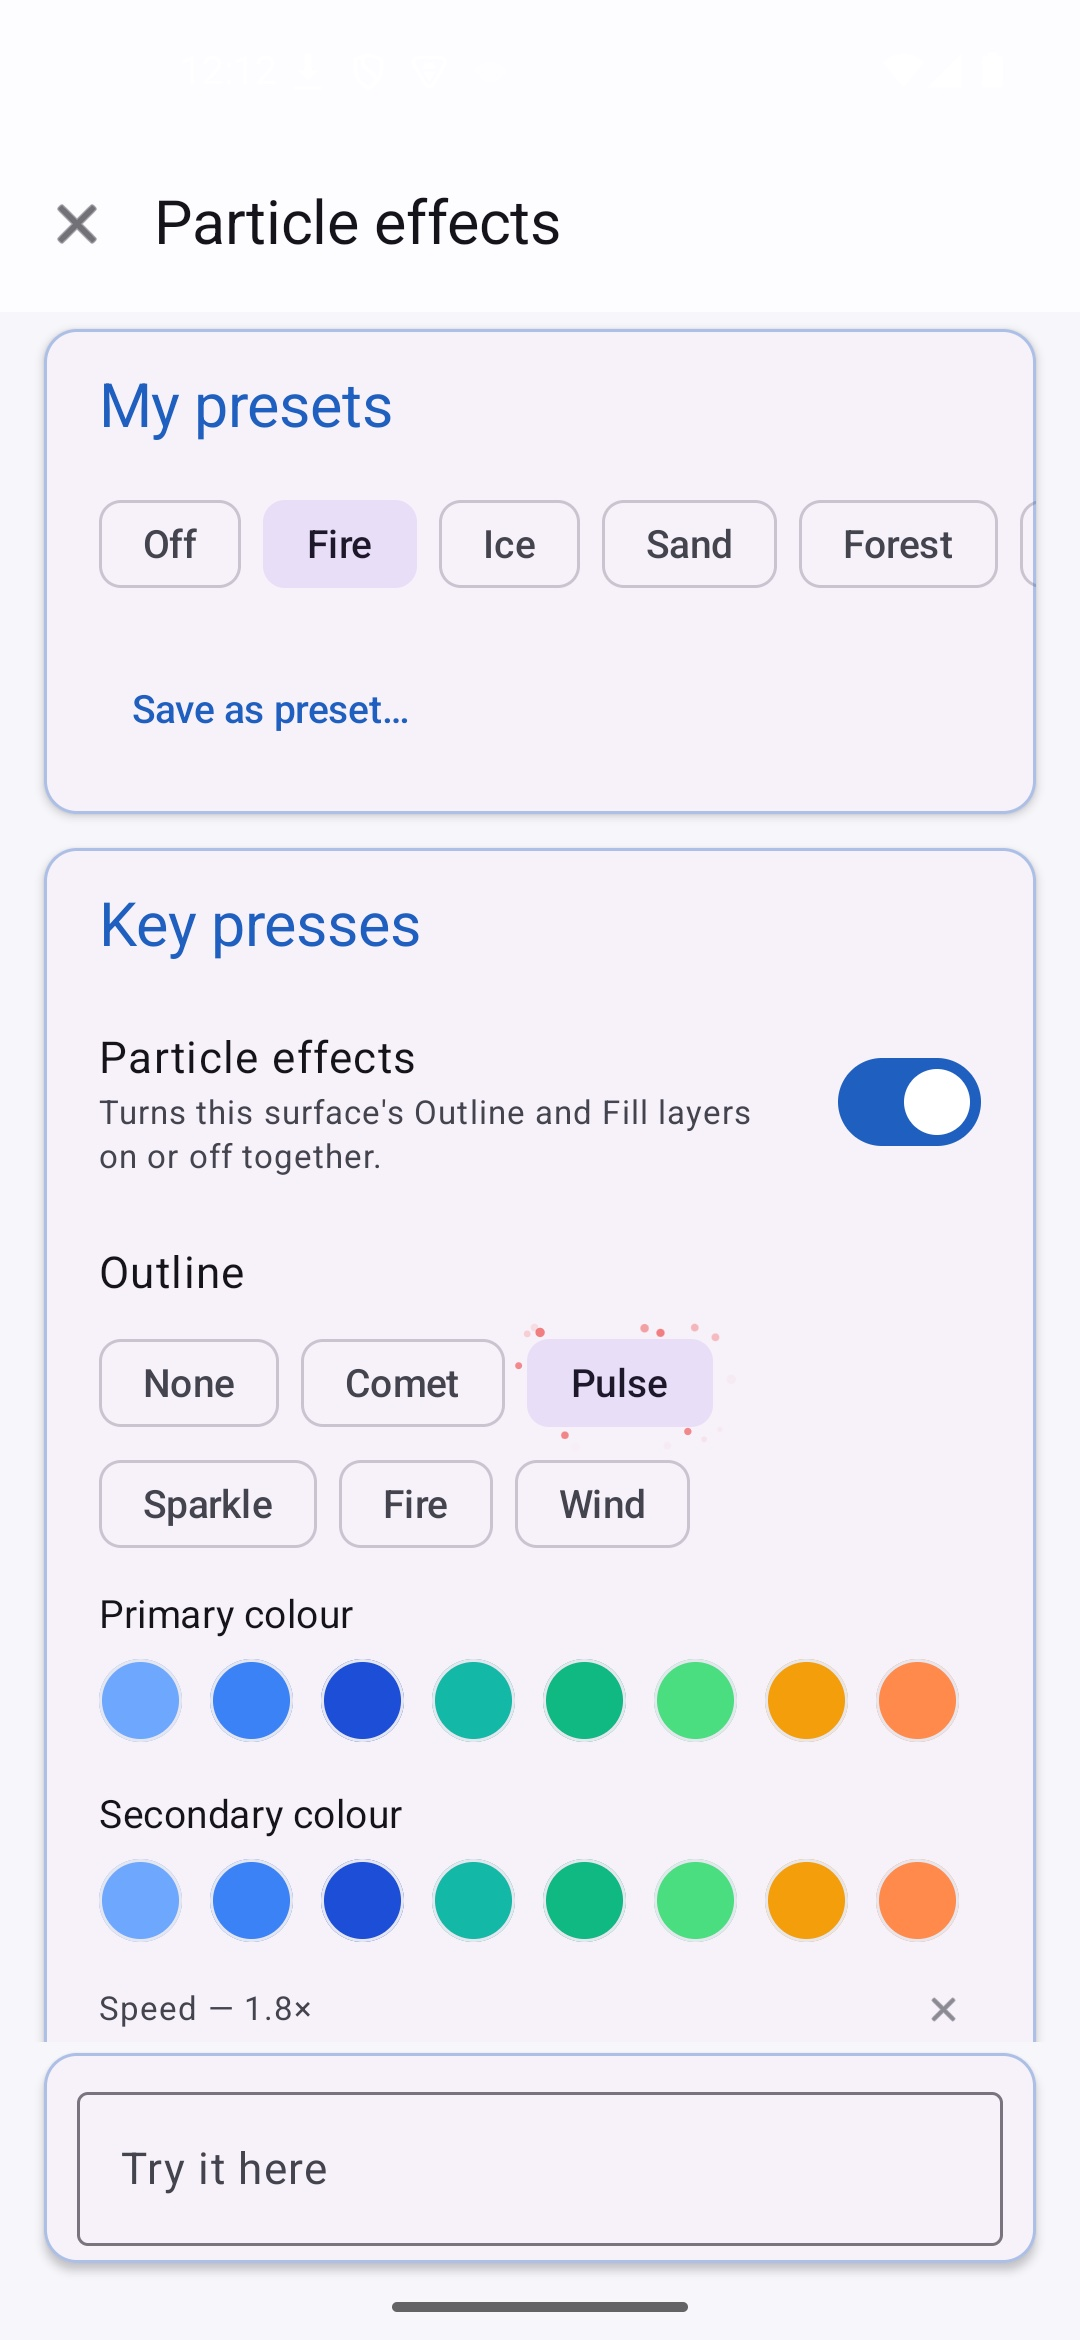
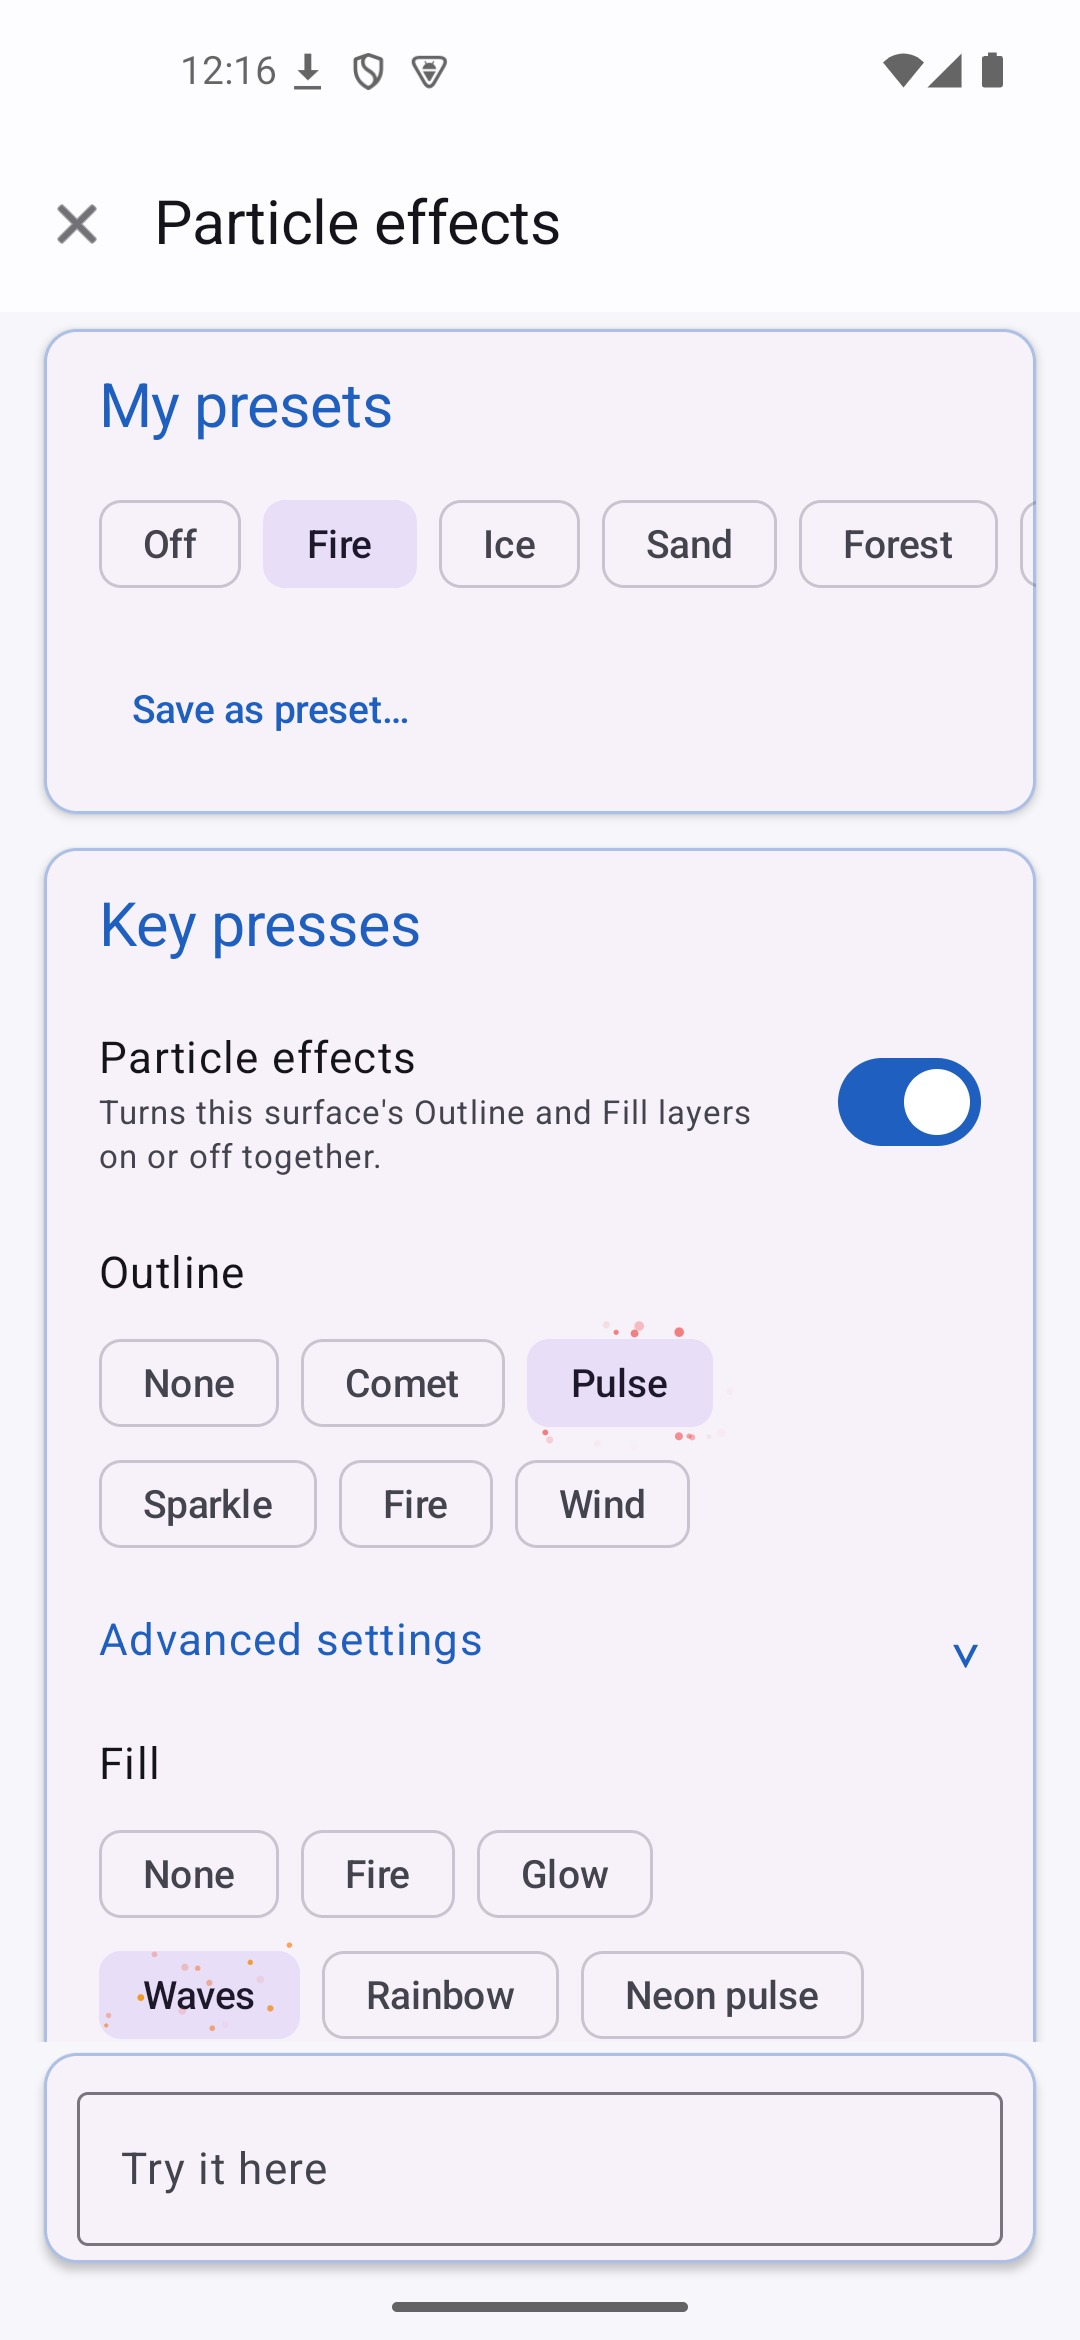
docs: README, store listings and screenshots caught up with the last two days
The capitals choice, the key popup and vibration strengths, text shortcuts, the Capital,
Normalise, Left and Right quick actions, the bar's own outline switch, the "Advanced
settings" fold, and Off as a particle preset, in the README and both store descriptions.
New screenshots from the emulator for both listings: a held key with its popup and particles,
the ring with its particles, the ring's settings, the effects screen and a layer unfolded, the
quick-action bar drawn live, the keys screen, the capitals choice, and the text shortcuts.

diff --git a/README.md b/README.md
@@ -53,10 +53,11 @@ directly from [GitHub Releases](https://github.com/razvan-eduard/borderkeys/rele
   dictionaries simply do not know is left alone rather than replaced by something far away, and
   the backspace straight after a correction puts back exactly what you typed.
 - **Capitals and spaces the way every keyboard does them.** Shift is spent by the next letter
-  only; two quick taps or a hold lock it. Sentences are capitalised on the field's own request,
-  or — a separate switch — even in fields that never made one. Two spaces make a full stop, a
+  only; two quick taps or a hold lock it. Capitals are off, on when the field asks for them, or
+  on everywhere — one choice, since some apps forget to ask. Two spaces make a full stop, a
   space is added after punctuation and a picked suggestion, and the space you type out of habit
-  right after can be ignored once, always, or kept.
+  right after can be ignored once, always, or kept. The capital after a full stop is decided
+  from what the keyboard just wrote, so it comes even in apps whose editor answers late.
 - **Swipe typing**, geometric (SHARK²) and deterministic in both flavors — no model, no training
   data, no accuracy number that depends on what you happened to type it on. A small loop at a
   doubled letter tells "hello" from "helo". Swiping switches itself off in password, e-mail,
@@ -86,6 +87,13 @@ directly from [GitHub Releases](https://github.com/razvan-eduard/borderkeys/rele
 - **Text shortcuts.** A word that stands for a longer text — "omw" for "on my way", an address, a
   sign-off — expands when a space or a punctuation mark follows it, takes the capital you gave the
   shortcut, and comes back with the backspace straight after, like any other correction.
+- **Keys that answer back.** The pressed key shows itself enlarged above your finger while it is
+  held, the held key's alternates pop up in the same place, and the keypress vibration comes in
+  three strengths — from the phone's own feedback classes, so still without a vibration
+  permission. Long-press hints, the hold duration and what the enter key does are settings too.
+- **Settings that stay out of the way.** Every card leads with what changes how typing feels;
+  the calibration values, the workarounds for particular apps and the choices made once fold
+  under an "Advanced settings" line, closed until you open it.
 - **Private mode is automatic.** In a password field, or wherever an app asks for no personalised
   learning, there is no learning, no clipboard history, no swipe, no ring — and a password's text
   never reaches the prediction engine at all.
@@ -96,11 +104,15 @@ directly from [GitHub Releases](https://github.com/razvan-eduard/borderkeys/rele
 
 ### Quick actions
 
-A row of buttons for what otherwise takes several gestures — copying a word, pasting, selecting
-everything — built in, and extendable: a **custom quick action** is a macro of steps you define
-yourself, pinned onto the bar exactly like a built-in one. The bar can sit above the suggestions,
-below the keys, or down either side; it comes in four sizes, with optional labels under the
-buttons, and the settings screen shows the real bar live while you change it.
+A row of buttons for what otherwise takes several gestures — copying a word, a line or
+everything, pasting, cutting, selecting a word or all of it, deleting a word, moving the cursor to
+either end or one character left or right, undo and redo, a new line — plus two edits on the text
+itself: **Capital** flips the first letter of the word at the cursor, **Normalise** capitalises
+the start of every sentence in the field. Built in, and extendable: a **custom quick action** is
+a macro of steps you define yourself, pinned onto the bar exactly like a built-in one. The bar
+can sit above the suggestions, below the keys, or down either side; it comes in four sizes, with
+optional labels under the buttons and an outline around each — its own switch, since the buttons
+are not keys — and the settings screen shows the real bar live while you change it.
 
 <p align="center">
   <img src="docs/images/quick_actions.png" alt="The quick actions screen: the bar drawn live above its settings, with labels under the buttons" width="40%">
@@ -112,8 +124,9 @@ Built-in themes across several colour families, full manual control over every c
 corner radius, and a **custom theme library**: save what you built, import a theme someone
 shared, export and rename your own — kept separately from whichever single theme is active
 right now. Colours picked through the wheel are kept per field, the background can reach the
-whole width or stop at the keys, leave the navigation bar's strip bare or paint it, and the
-outline frames the whole keyboard rather than each key.
+whole width or stop at the keys, leave the navigation bar's strip bare or paint it, and the key
+outline follows every key-shaped control — the keys, the held-key popup, the panel chips — and
+frames the whole keyboard.
 
 <p align="center">
   <img src="docs/images/custom_theme.png" alt="The theme screen: the keyboard drawn live, then the preset families and manual controls" width="40%">
@@ -126,9 +139,10 @@ panel and the quick-action bar — each with two independent layers: a **fill** 
 the element (Fire, Glow, Waves, Rainbow, Neon pulse) and an **outline** that traces the element's
 own edge and radiates outward (Comet, Pulse, Sparkle, Fire, Wind), with their own colours, speed,
 density and width. Every element hands the particle system its exact geometry, so an outline
-follows a key, a wedge or a chip precisely and survives any resize. Six built-in looks and your
-own saved presets set all five surfaces at once; whatever you change afterwards shows as unsaved
-changes against the preset you started from. Off by default.
+follows a key, a wedge or a chip precisely and survives any resize. Six built-in looks — Off is
+one of them — and your own saved presets set all five surfaces at once; whatever you change
+afterwards shows as unsaved changes against the preset you started from, and each layer's colours
+and dials sit under its own Advanced fold. Off by default.
 
 <p align="center">
   <img src="docs/images/particle_effects.png" alt="The particle effects screen: presets, then each surface's outline and fill layers" width="40%">
@@ -151,7 +165,8 @@ instead of opening an idle box first.
 ### Backup, restore, and control
 
 Everything this keyboard has learned and configured — dictionaries, settings, theme, size and
-position, particle effects, quick actions, saved instructions — writes to and reads from a
+position, particle effects, quick actions, text shortcuts, saved instructions — writes to and
+reads from a
 single file, under your control, on your schedule, with a checklist of exactly what a file
 contains shown before any of it is applied. The two builds can hand their settings and
 dictionaries to each other directly, without a file. Nothing syncs anywhere on its own.
@@ -178,15 +193,21 @@ learned dictionary of the other build.
 
 ### Typing, in both builds
 
-| Suggestions match the case you typed | Settings | Theme | Several languages at once |
+| A held key, its popup, and names capitalised on their own | Settings | Theme | Several languages at once |
 |---|---|---|---|
 | ![](fastlane/com.borderkeys/metadata/android/en-US/images/phoneScreenshots/1_typing.jpg) | ![](fastlane/com.borderkeys/metadata/android/en-US/images/phoneScreenshots/2_home.jpg) | ![](fastlane/com.borderkeys/metadata/android/en-US/images/phoneScreenshots/3_theme.jpg) | ![](fastlane/com.borderkeys/metadata/android/en-US/images/phoneScreenshots/4_languages.jpg) |
 
 ### The radial menu and the effects, in both builds
 
-| A ring of alternatives, mid-swipe | What a tap outside the ring does, and the rest | Particle effects | Quick actions, drawn live |
+| A ring of alternatives, with its particles | The ring's settings, the dials folded away | Particle effects: presets, then each surface | A layer unfolded: colours and dials |
 |---|---|---|---|
-| ![](fastlane/com.borderkeys/metadata/android/en-US/images/phoneScreenshots/5_radial_menu.jpg) | ![](fastlane/com.borderkeys/metadata/android/en-US/images/phoneScreenshots/6_radial_settings.jpg) | ![](fastlane/com.borderkeys/metadata/android/en-US/images/phoneScreenshots/7_particle_effects.jpg) | ![](fastlane/com.borderkeys/metadata/android/en-US/images/phoneScreenshots/8_quick_actions.jpg) |
+| ![](fastlane/com.borderkeys/metadata/android/en-US/images/phoneScreenshots/5_radial_menu.jpg) | ![](fastlane/com.borderkeys/metadata/android/en-US/images/phoneScreenshots/6_radial_settings.jpg) | ![](fastlane/com.borderkeys/metadata/android/en-US/images/phoneScreenshots/7_particle_effects.jpg) | ![](fastlane/com.borderkeys/metadata/android/en-US/images/phoneScreenshots/11_particle_layers.jpg) |
+
+### The bar, the keys and the shortcuts, in both builds
+
+| Quick actions, drawn live, outlined | Layout & keys: the popup and the vibration strength | Capitals: off, when the app asks, always | Text shortcuts |
+|---|---|---|---|
+| ![](fastlane/com.borderkeys/metadata/android/en-US/images/phoneScreenshots/8_quick_actions.jpg) | ![](fastlane/com.borderkeys/metadata/android/en-US/images/phoneScreenshots/9_layout_keys.jpg) | ![](fastlane/com.borderkeys/metadata/android/en-US/images/phoneScreenshots/10_typing_settings.jpg) | ![](fastlane/com.borderkeys/metadata/android/en-US/images/phoneScreenshots/12_text_shortcuts.jpg) |
 
 ### The assistant, `plus` only
 
